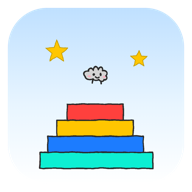
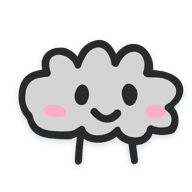
PWA 아이콘을 배경 없는 먼지 캐릭터로 교체, SW 캐시 v2

diff --git a/sw.js b/sw.js
@@ -1,4 +1,4 @@
-const CACHE = "uptop-v1";
+const CACHE = "uptop-v2";
 const ASSETS = [
   "./",
   "./index.html",